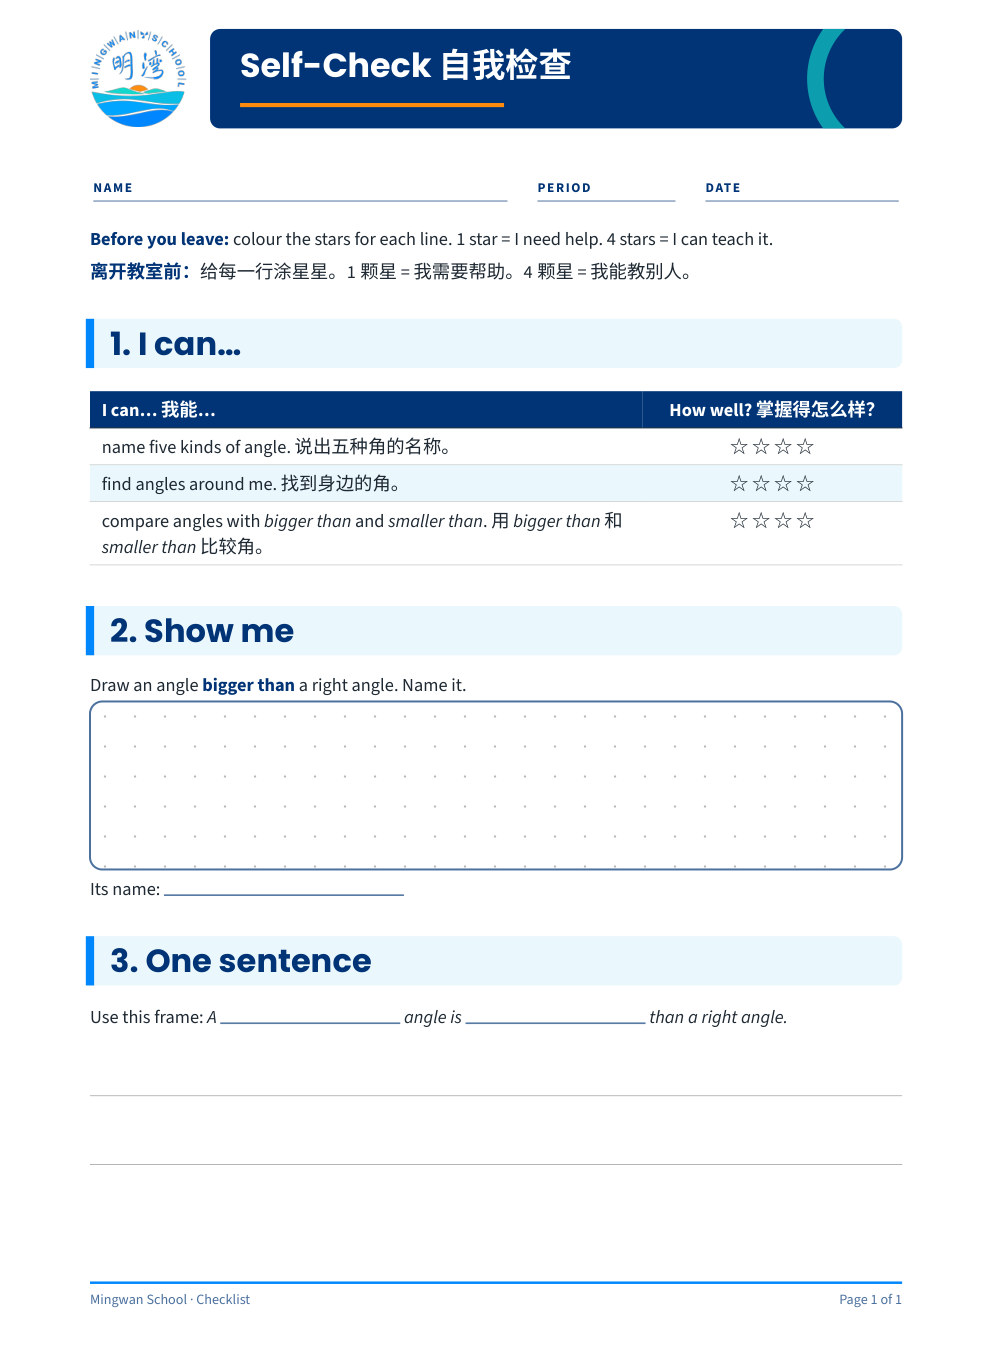
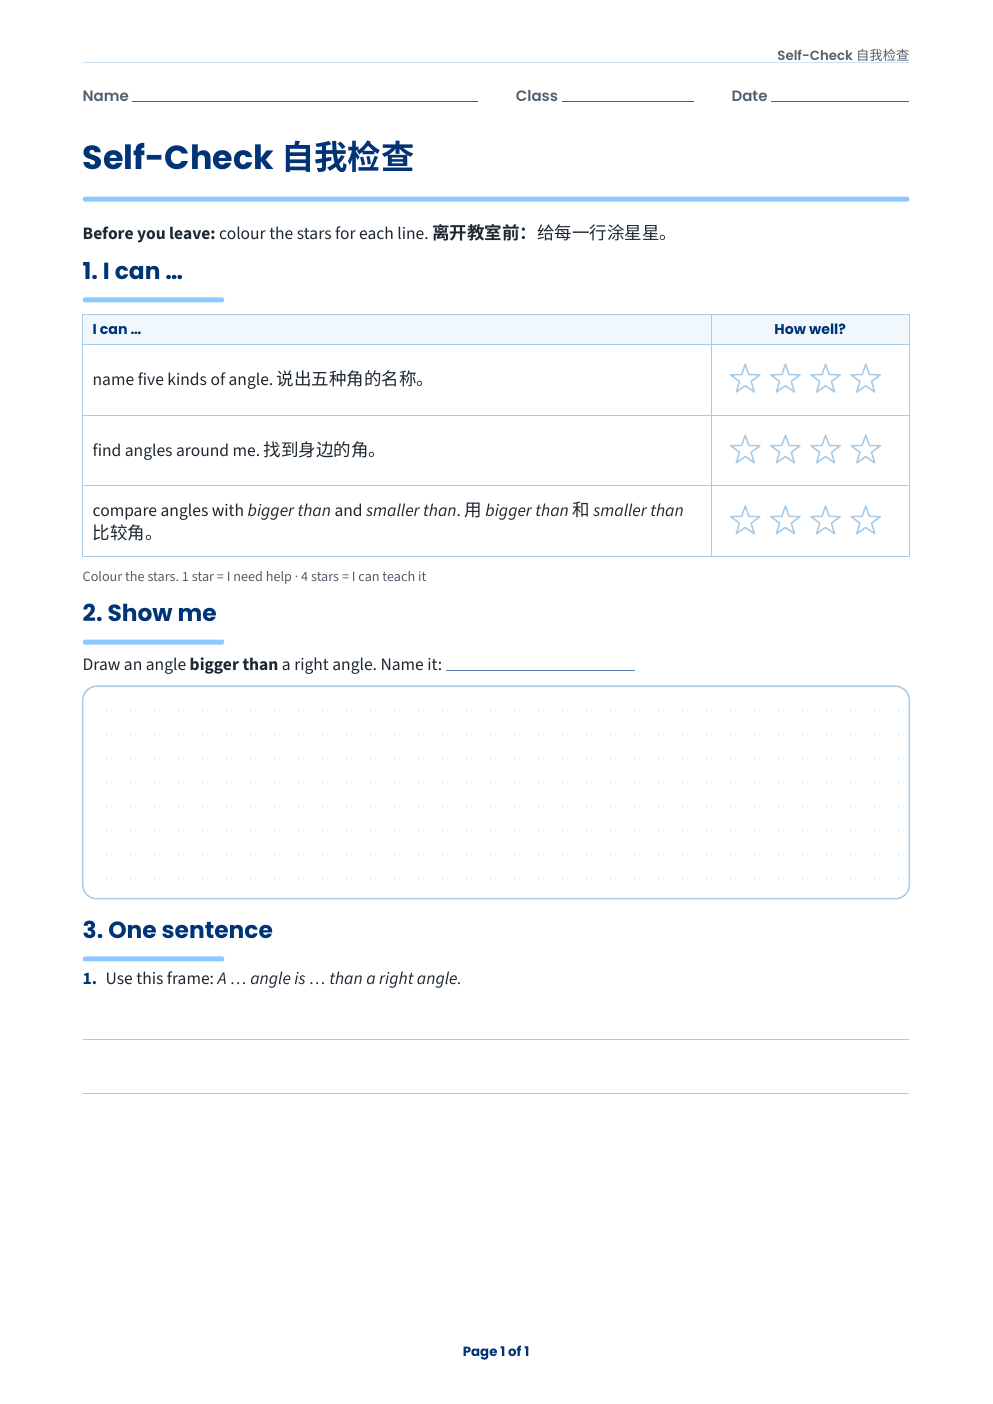
Guide printables rewritten with the packet blocks; a self-check block
Claude-Session: https://claude.ai/code/session_01Guxr1Qf2ctrknSf8WoGcrZ

diff --git a/TOOL-CHANGES.md b/TOOL-CHANGES.md
@@ -16,6 +16,13 @@ Newest entries first.
 - **AI assistant:** which one made the change.
 -->
 
+## 2026-11-07: The guide's printables redone with the packet blocks; a self-check block
+- **Asked for:** "redo the guide printables" with the kit (packet rebuild plan, step 7).
+- **Why:** the old worksheet layout is retired; the guide's own examples should show the new way.
+- **Changed:** `guide/angle-hunt.qmd`, `guide/example-handout.qmd` (Thinker Card), `guide/self-check.qmd`: rewritten with panels, work spaces, recall frames (example answers in the teacher edition) and page notes. `kit-blocks.lua`: new `::: self-check` block. `typst/packet/kit.typ`: `self-check(lesson: true)`, four stars to colour per line (drawn, so they print in any font). `guide/images/page-self-check.png`: the new page. The Printable templates and Packet templates guide pages: their pieces.
+- **Who it helps:** probably every Chalkline course.
+- **AI assistant:** Claude.
+
 ## 2026-11-07: Full-page organizers on the web, and as landscape loose sheets
 - **Asked for:** "Web versions: simple pages as HTML; layout-heavy pages point to the PDF" (packet rebuild plan, step 4).
 - **Why:** a Venn or KWL can't be laid out as a web page, but students still need it.

diff --git a/IDEAS.md b/IDEAS.md
@@ -63,7 +63,7 @@ Language goals come in different formats, and each needs its own fields and its 
 **Progress (branch `ccr-763051f4-zrh2pq`, 2026-11-06):**
 - Done: 1 (the kit lays out every printable; posters kept), 2 (blocks in `.qmd`: `kit-blocks.lua`), 3 (with "Goes with packet page …" on loose sheets), 5 (guide `example-angles/`, `example-rome/` with the Greek slides), 6 (units 01–05 in `archive/units/`; Start Here now tours the Template Library).
 - Done since: 4 (a Venn or KWL page shows its PDF on the web, in the viewer with pens; loose landscape sheets are real landscape pages).
-- Still to do: 7 (Mesopotamia and Rome Typst samples as `.qmd`; redo Angle Hunt, Thinker Card, Self-Check with the kit); README/TOOL-CHANGES note on the breaking change before merging.
+- Still to do: 7 (Mesopotamia and Rome Typst samples as `.qmd`; Angle Hunt, Thinker Card and Self-Check are done); README/TOOL-CHANGES note on the breaking change before merging.
 
 
 The packet kit is in Chalkline since 2026-11-06 (`_extensions/chalkline/typst/packet/`, samples in `guide/packet/`, the **Packet Templates** guide page). Still to do:
